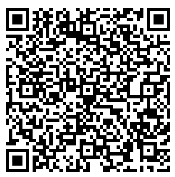
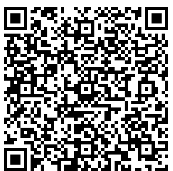
first commit

diff --git a/src/components/NumberModal.tsx b/src/components/NumberModal.tsx
@@ -19,7 +19,7 @@ export default function NumberModal({ isOpen, onClose, selectedNumber }: NumberM
   const [copied, setCopied] = useState(false)
 
   const whatsappNumber = "14981706898";
-  const pixKey = "00020126580014BR.GOV.BCB.PIX01368b89d9e9-872f-4bc1-8604-0668d77608b95204000053039865802BR5925Jose Francisco de Souza F6009SAO PAULO62140510MrnoLZWEZT63042E50";
+  const pixKey = "00020126580014BR.GOV.BCB.PIX01368b89d9e9-872f-4bc1-8604-0668d77608b9520400005303986540510.005802BR5925Jose Francisco de Souza F6009SAO PAULO62140510E2yOSC5rxh6304DF41";
   
   const handleSubmit = (e: React.FormEvent) => {
     e.preventDefault()
